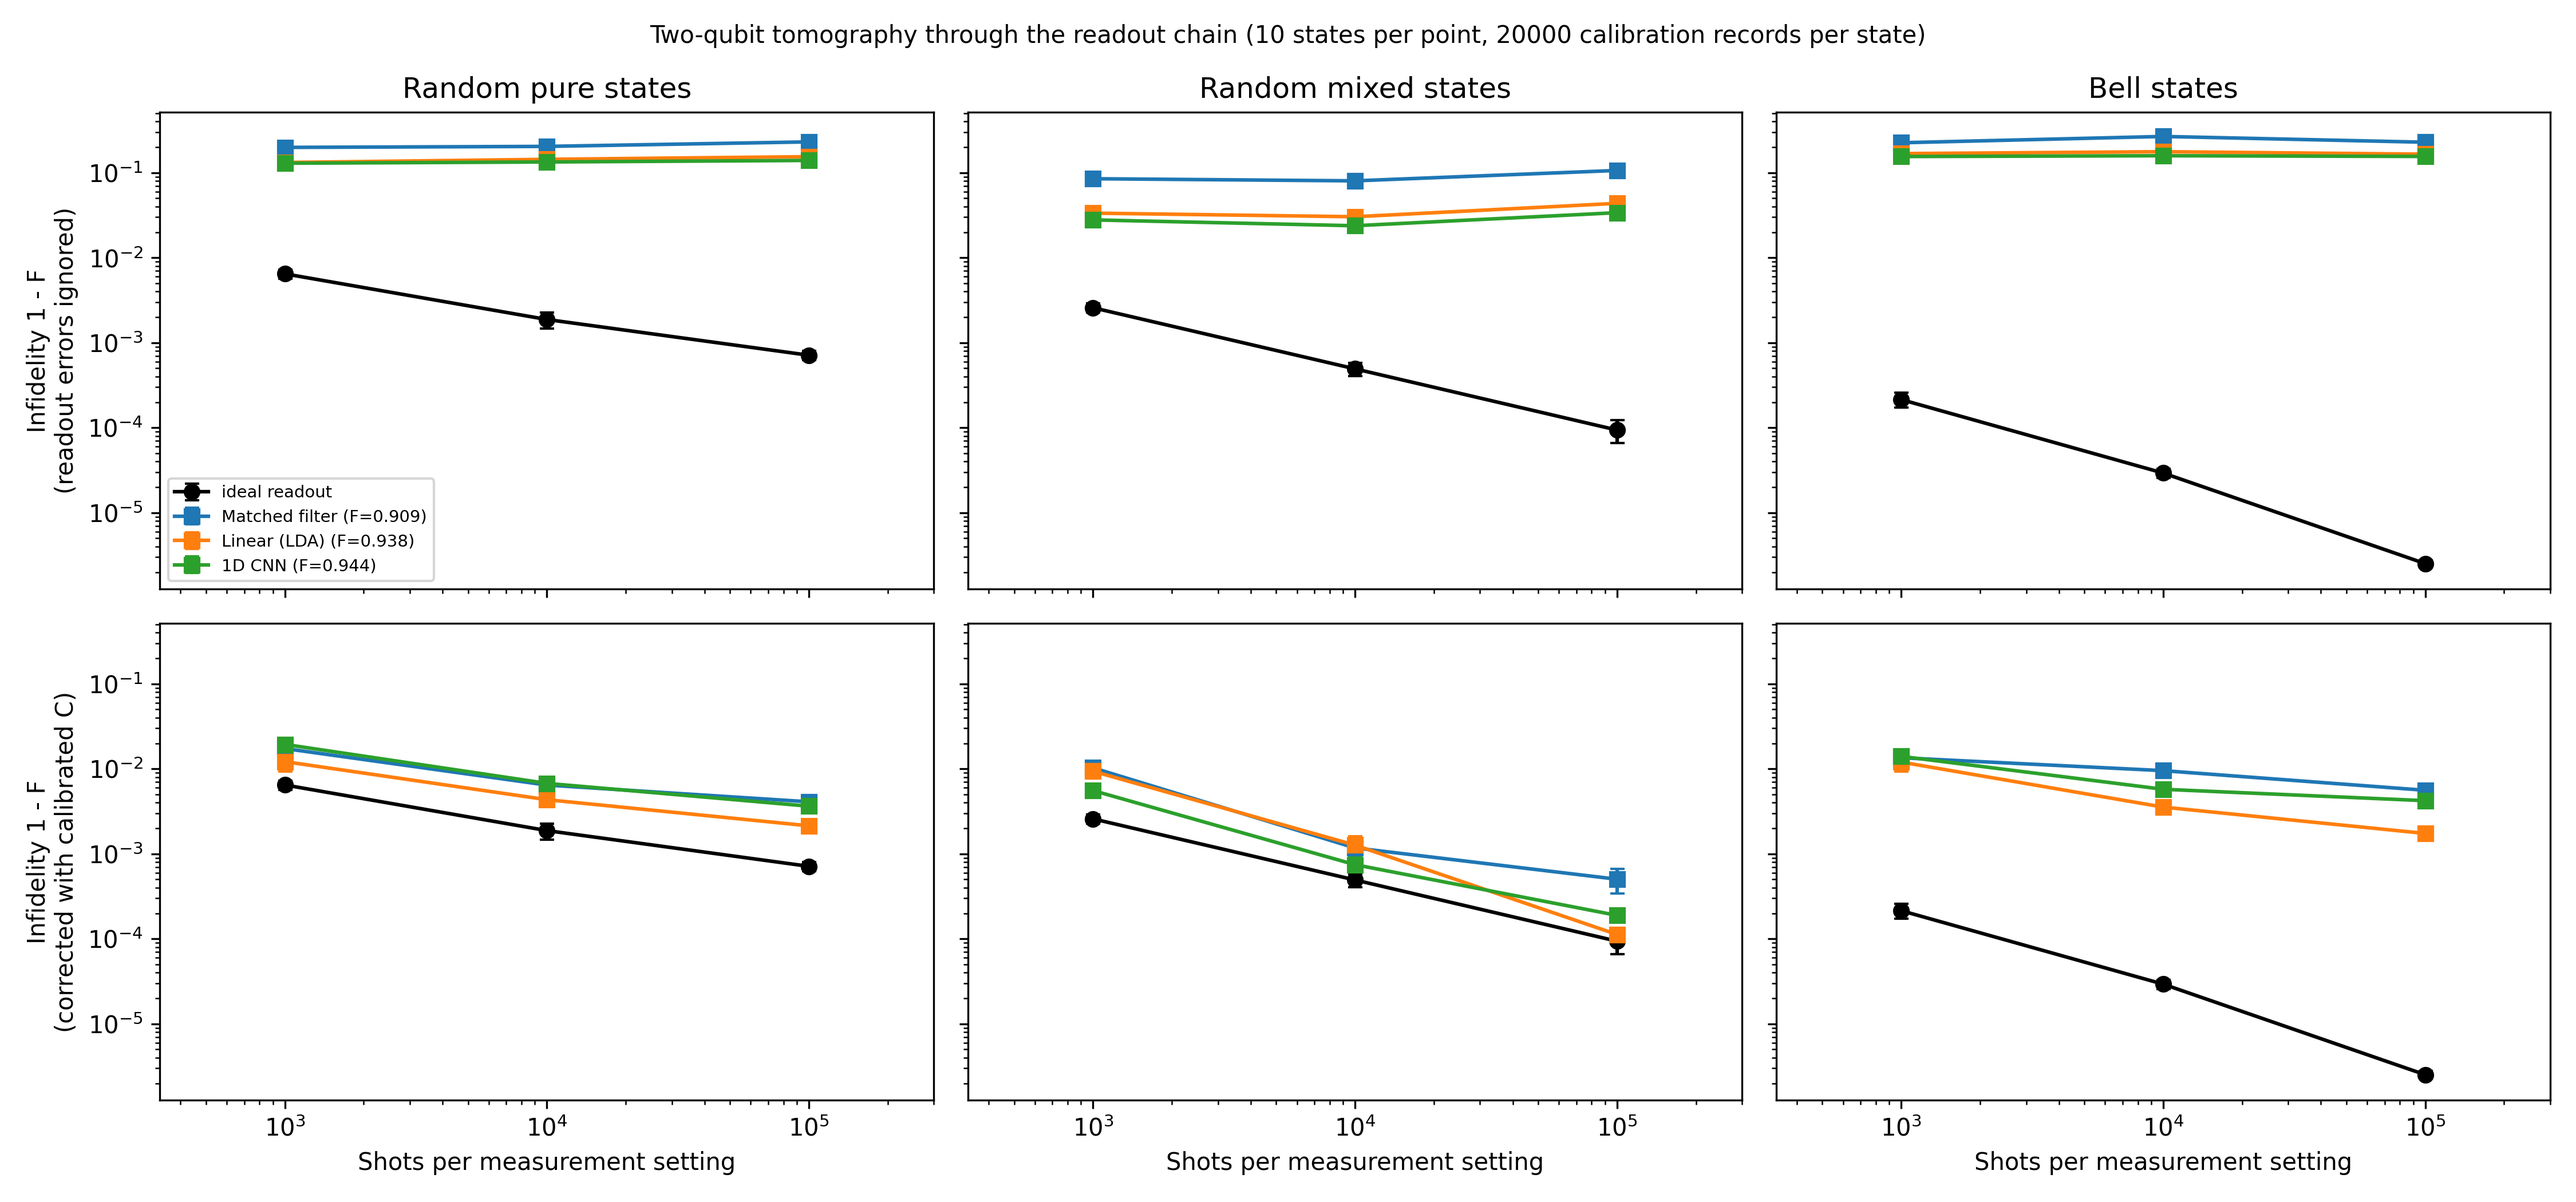
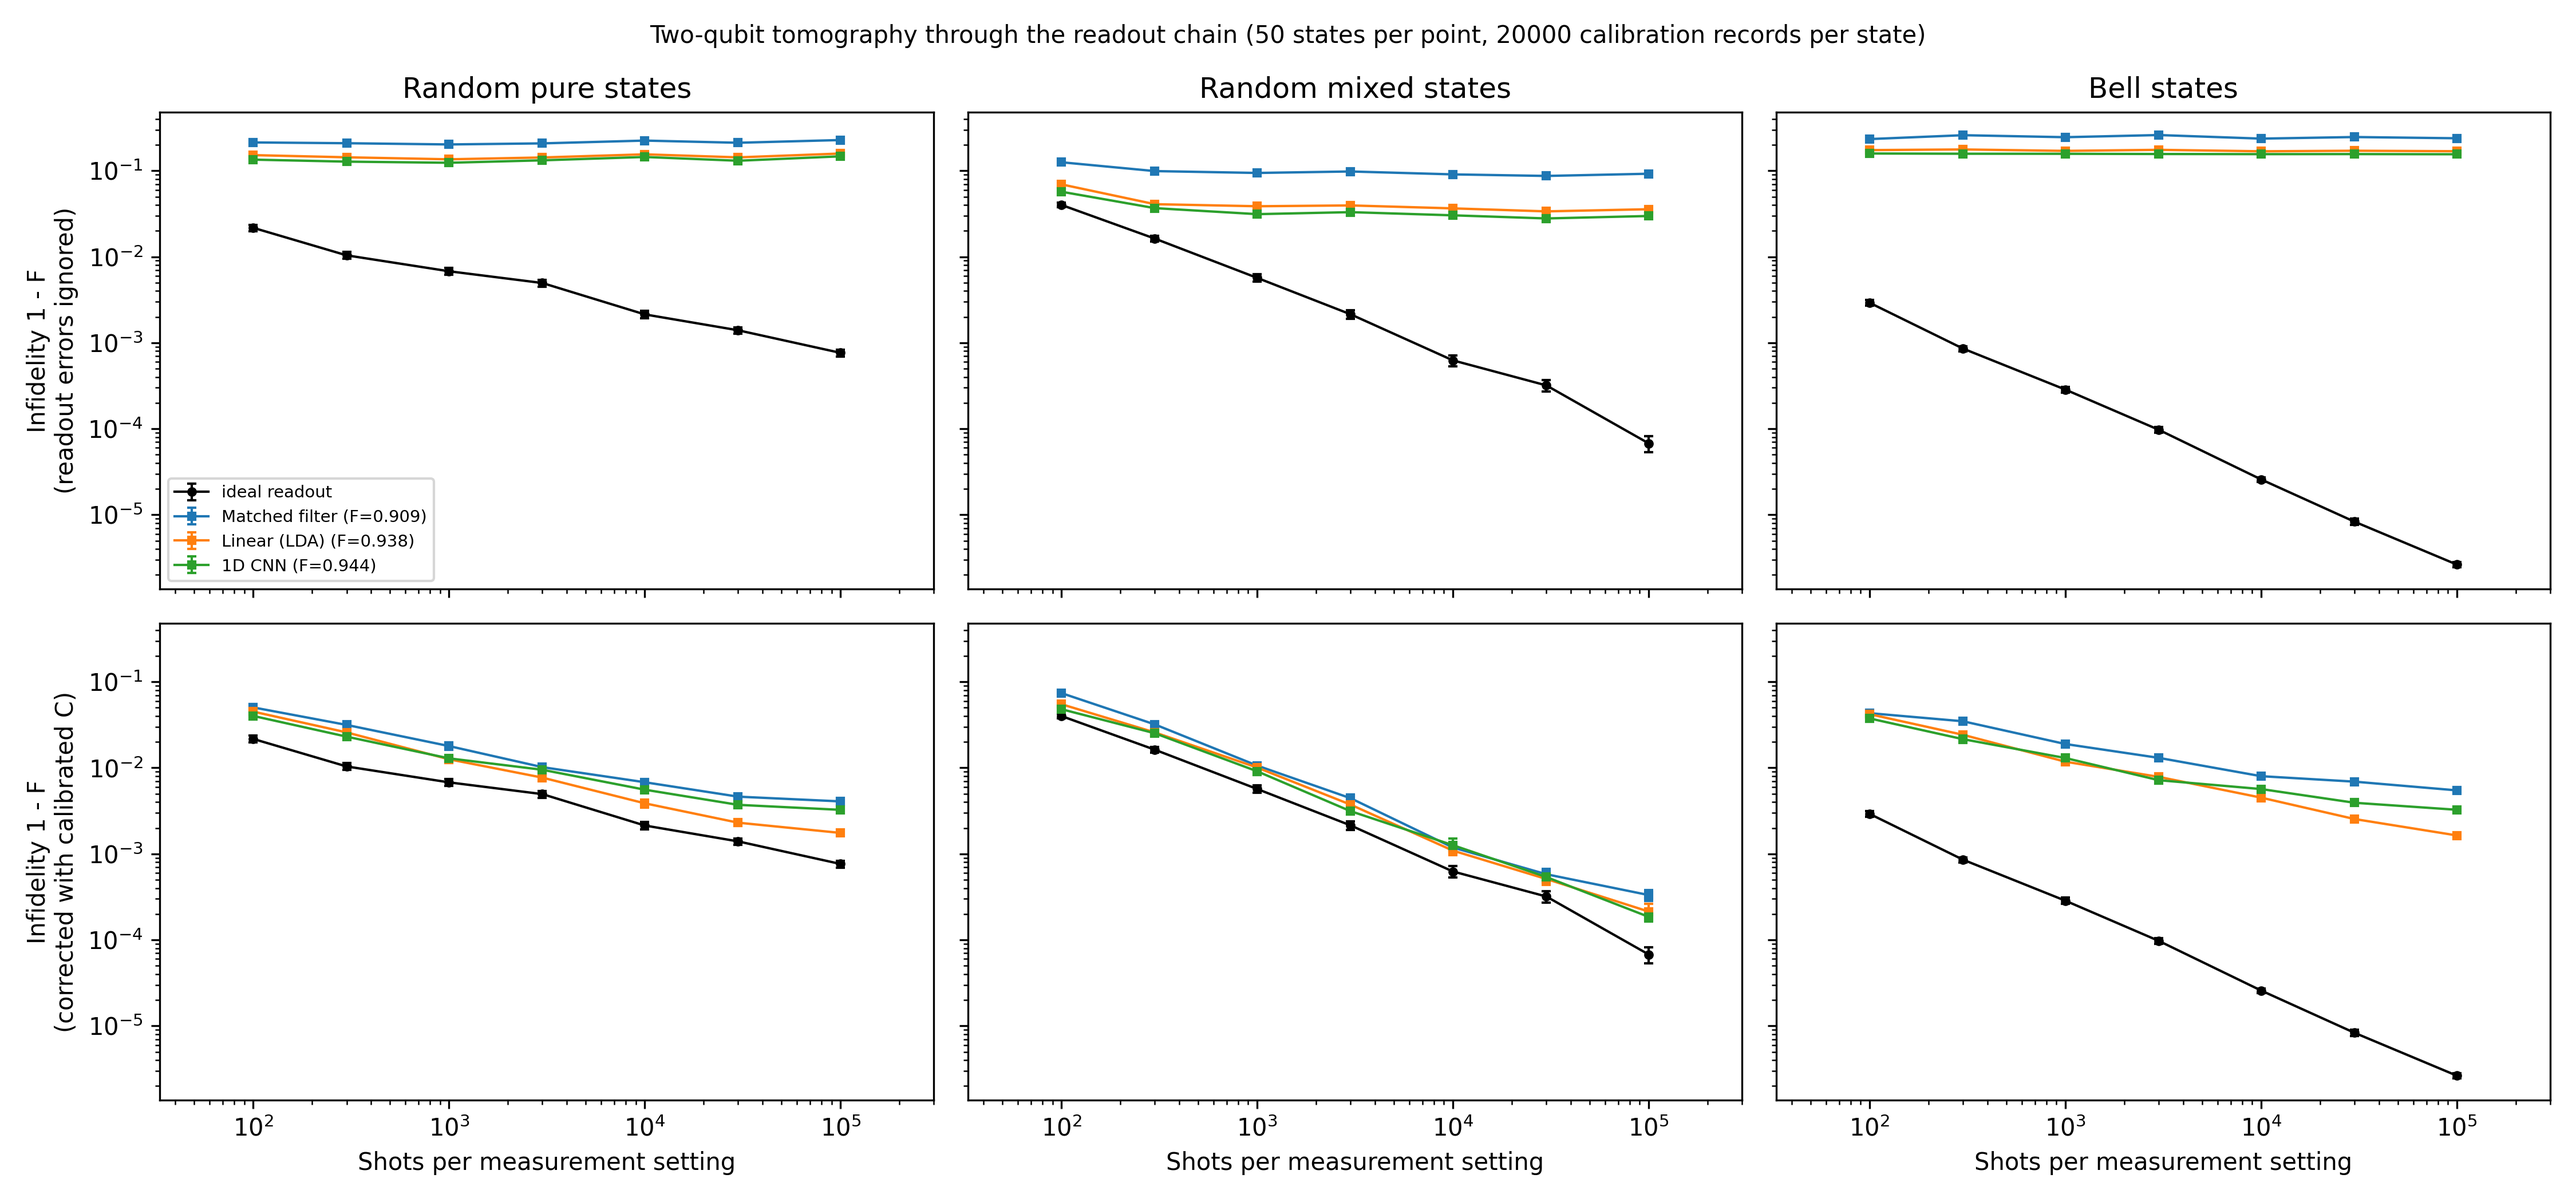
Results from final run and README

diff --git a/tomography/readout_tomography.py b/tomography/readout_tomography.py
@@ -22,8 +22,8 @@ from train.arguments import parse_args
 
 BELL_NAMES = ["phi+", "phi-", "psi+", "psi-"]
 TITLES = {"pure": "Random pure states", "mixed": "Random mixed states", "bell": "Bell states"}
-NICE = {"integrated": "Integrated threshold", "matched": "Matched filter", "lda_indep": "LDA (own channels)",
-        "lda": "Linear (LDA)", "cnn": "1D CNN"}
+NICE = { "cnn": "1D CNN","integrated": "Integrated threshold", "matched": "Matched filter", "lda_indep": "LDA (own channels)",
+        "lda": "Linear (LDA)"}
 
 
 def make_state(kind, rng, rank):
@@ -69,11 +69,11 @@ def plot(results, chain, args):
             ax = axes[row][col]
             arr = np.array(results[kind]["ideal"])
             ax.errorbar(shots, arr.mean(1), yerr=arr.std(1) / np.sqrt(arr.shape[1]), color="k", marker="o",
-                        capsize=3, label="ideal readout")
+                        capsize=2, markersize=3, linewidth=1, label="ideal readout")
             for name in chain:
                 arr = np.array(results[kind][method][name])
                 label = f"{NICE.get(name, name)} (F={chain[name]['fid'].mean():.3f})"
-                ax.errorbar(shots, arr.mean(1), yerr=arr.std(1) / np.sqrt(arr.shape[1]), marker="s", capsize=3, label=label)
+                ax.errorbar(shots, arr.mean(1), yerr=arr.std(1) / np.sqrt(arr.shape[1]), marker="s", capsize=2, label=label, markersize=3, linewidth=1)
             ax.set_xscale("log"); ax.set_yscale("log")
             ax.set_xlim(shots.min() / 3, shots.max() * 3)
             if row == 0:

diff --git a/README.md b/README.md
@@ -1,0 +1,52 @@
+# Two-Qubit State Tomography Through a Noisy Readout Chain
+
+A self-contained project on **quantum state tomography**: reconstructing the density matrix of two qubits from measurement statistics, first with ideal readout, then through the simulated readout chain of a superconducting qubit. The readout classifiers (matched filter, linear discriminant, and a 1D CNN) come from [Qubit-Readout-ML](https://github.com/samuelnoger/Qubit-Readout-ML).
+
+<img src="results/figures/ideal_tomography.png" alt="Ideal tomography" width="400">
+<img src="results/figures/readout_tomography.png" alt="Tomography through the readout chain" width="400">
+
+---
+
+## Background
+
+A two-qubit density matrix $\rho$ has 15 real parameters[cite: 10]. Measuring each qubit in the $X$, $Y$ or $Z$ basis yields 9 measurement settings with four outcomes each[cite: 10]. The probability of an outcome is given by the Born rule[cite: 10]. Reconstruction from finite shots is a statistical estimate, evaluated by the infidelity $1 - F$ against the true state[cite: 10].
+
+## Methods
+
+**Reconstruction:**
+- *Linear inversion with projection:* Estimates Pauli correlators from counts, projects the result onto the nearest physical state[cite: 10].
+- *Maximum likelihood (MLE):* Iterative solver ensuring the estimate remains physical[cite: 10].
+
+**Readout chain:** The QuTiP simulator implements $T_1$ decay, dispersive cavity response, and multi-qubit crosstalk[cite: 10]. A classifier predicts the bit string[cite: 10]. The chain is summarized by a $4 \times 4$ confusion matrix $C$[cite: 10].
+
+**Reconstructions through the chain:**
+- *Naive:* Treats reported counts as if readout were perfect[cite: 10].
+- *Corrected:* Runs MLE with effective measurement operators, using a confusion matrix calibrated from a separate dataset[cite: 10].
+
+## Results
+
+### Ideal readout
+- **Bell states:** MLE falls as $1/N$ and reaches roughly $10^{-6}$ at $3 \times 10^5$ shots[cite: 10]. Linear inversion falls as $1/\sqrt{N}$[cite: 10].
+- **Random pure states:** Both estimators scale roughly as $1/\sqrt{N}$[cite: 10].
+- **Random mixed states:** Both estimators scale roughly as $1/N$ at high shot counts[cite: 10].
+
+### Through the readout chain
+- **Ignoring readout errors gives a hard noise floor:** Without correction, infidelity plateaus[cite: 10]. More shots do not improve the reconstruction[cite: 9, 10].
+- **A calibrated correction recovers scaling:** With MLE correction, the infidelity resumes falling with the number of shots[cite: 9, 10]. For Bell states, a significant gap remains relative to the ideal readout curve[cite: 9].
+- **Classifier impact:** Uncorrected, the matched filter performs worse than the LDA or CNN[cite: 9, 10]. With correction, the CNN and LDA perform similarly and slightly outperform the matched filter[cite: 9, 10].
+
+## Development Methodology
+
+The core CNN architecture, QuTiP simulation boilerplate, and classical baselines were scaffolded with the assistance of AI coding tools. Primary technical contributions focus on structuring the quantum state tomography math (Maximum Likelihood Estimation and Linear Inversion), designing the physical simulation to isolate multi-qubit crosstalk, optimizing hardware utilization for Apple Silicon (MPS), and decoupling the analog data generation pools to bypass computational bottlenecks during high-shot evaluation.
+
+## Quick start
+```bash
+pip install -r requirements.txt
+
+python -m tomography.states
+python -m tomography.reconstruct
+python -m tomography.ideal_tomography --shots 30 300 3000 30000 300000 --mle-iters 2000
+
+python -m tomography.readout_tomography \
+    --shots 100 300 1000 3000 10000 30000 100000 \
+    --n-states 50 --n-cal 20000 --n-cal-true 40000 --mle-iters 2000
